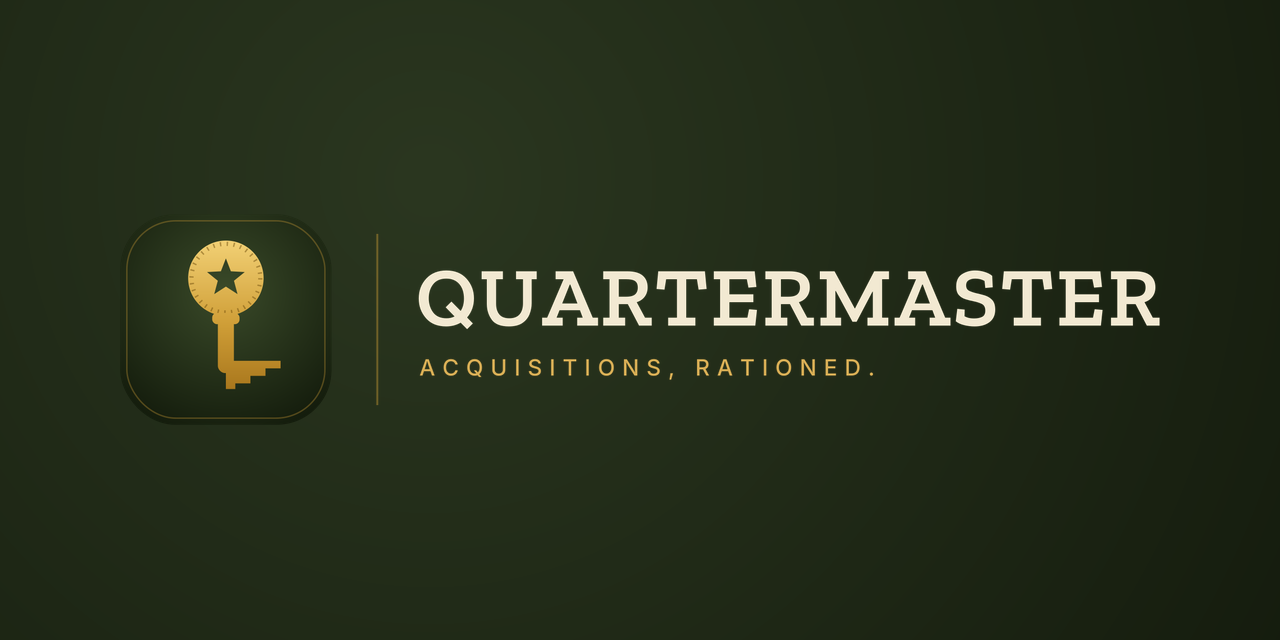
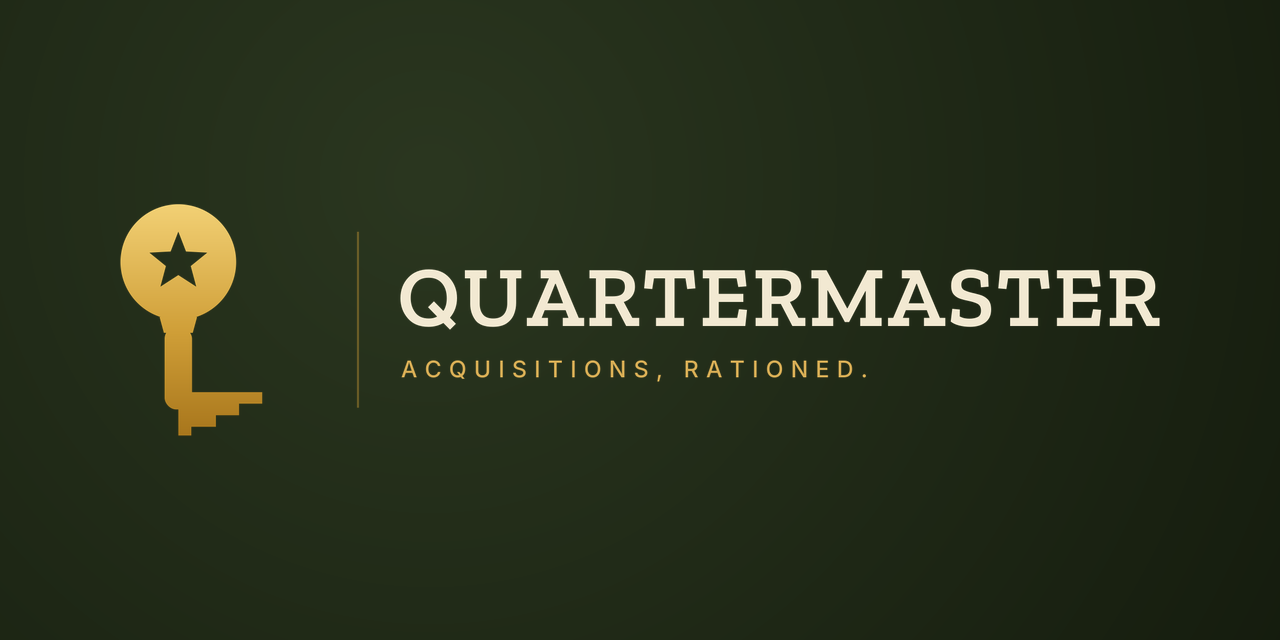
brand: redraw from mono master per the design review
Mono is now the master geometry: tighter tapered throat (no balloon neck), true evenodd star knockout. Colour key derives from it -- clean struck-disc coin (dropped the fussy reeding), knockout star, brass on depot tile. Lockup de-boxed (key floats on the field, knockout shows the bg through) + keeps the outlined slab wordmark. Favicon redrawn as a bold key silhouette that survives <=24px instead of a generic star badge. Regenerated the 1280x640 social card.

Claude-Session: https://claude.ai/code/session_01XLY3gRGyvQwLbLhxy4aKe4

Changed region(s): [[0.3125, 0.4062, 0.9062, 0.5312], [0.0938, 0.3125, 0.2188, 0.6875], [0.3125, 0.5625, 0.6875, 0.5938]]

diff --git a/assets/BRAND.md b/assets/BRAND.md
@@ -6,10 +6,10 @@
 ## Logo files
 | File | Use |
 |---|---|
-| `quartermaster-key.svg` | **Primary mark.** A key whose bow is a reeded quarter with a star punched through; the bit's teeth ascend left→right (climbing value). One object = coin (quarter) + military (star) + control-of-stores (key). |
-| `quartermaster-lockup.svg` | Horizontal lockup — mark + ledger-column rule + slab wordmark + tagline. |
-| `quartermaster-mark-mono.svg` | Single-colour, transparent (stamps, watermarks; recolour via the group `fill`). |
-| `quartermaster-favicon.svg` | Simplified to the star-punched quarter for small sizes (≤24 px). |
+| `quartermaster-key.svg` | **Primary mark.** A key whose bow is a struck quarter (clean coin disc) with a star knocked through; the bit's teeth ascend left→right (climbing value). One object = coin (quarter) + military (star) + control-of-stores (key). The mono is the master geometry; the colour key derives from it. |
+| `quartermaster-lockup.svg` | Horizontal lockup — de-boxed mark + ledger-column rule + **outlined** slab wordmark + tagline (no live fonts). |
+| `quartermaster-mark-mono.svg` | **Master geometry.** Single-colour, transparent (stamps, watermarks; recolour via the group `fill`). |
+| `quartermaster-favicon.svg` | A bold key silhouette tuned for small sizes (≤24 px) — keeps the key identity rather than collapsing to a generic star. |
 | `quartermaster-social.png` | 1280×640 GitHub social-preview card (lockup on the depot field). |
 
 ## Palette